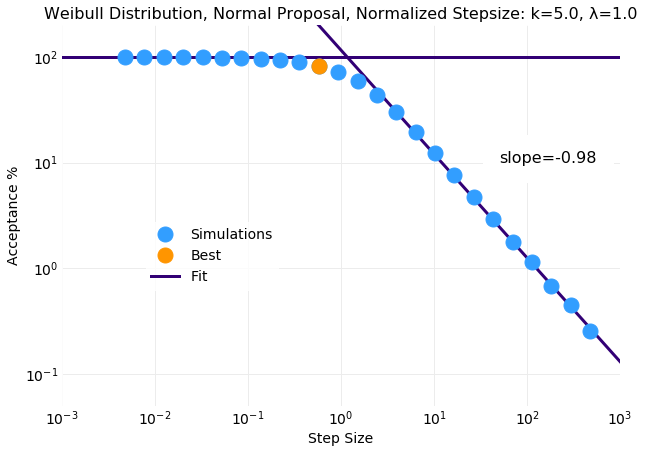
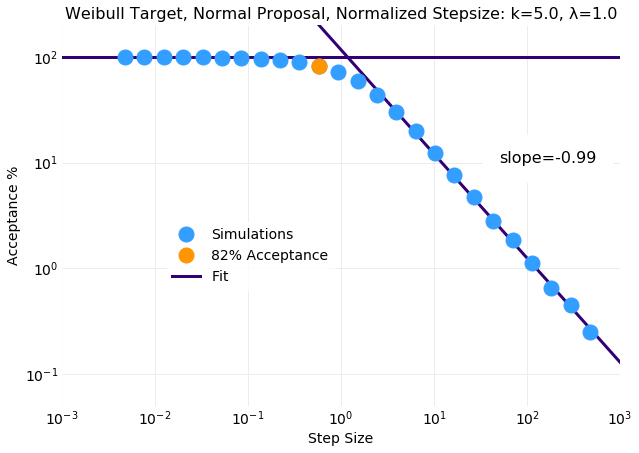
finihed acceptance plots

diff --git a/hydrogen_notebooks/mcmc/metropolis_hastings/proposal_distribution_performance_comparison.py b/hydrogen_notebooks/mcmc/metropolis_hastings/proposal_distribution_performance_comparison.py
@@ -28,11 +28,11 @@ def acceptance_plot(title, x, y, idx, text_pos, best_idx, xlim, plot):
     axis.set_prop_cycle(config.alternate_cycler)
     axis.set_ylim([0.05, 200.0])
     axis.loglog(x, y, zorder=6, marker='o', markersize=15.0, linestyle="None", markeredgewidth=1.0, label="Simulations")
-    axis.loglog(x[best_idx], y[best_idx], zorder=6, marker='o', markersize=15.0, linestyle="None", markeredgewidth=1.0, label="Best")
+    axis.loglog(x[best_idx], y[best_idx], zorder=6, marker='o', markersize=15.0, linestyle="None", markeredgewidth=1.0, label=f"{format(y[best_idx], '2.0f')}% Acceptance")
     axis.loglog(10**xfit, acceptance_fit(xfit, slope, y0), zorder=5, color="#320075", label="Fit")
     axis.loglog(numpy.linspace(xlim[0], xlim[1], 100), numpy.full((100), 100.0), zorder=5, color="#320075")
     axis.text(text_pos[0], text_pos[1], f"slope={format(slope, '2.2f')}", fontsize=16, bbox=bbox)
-    axis.legend(bbox_to_anchor=(0.4, 0.5))
+    axis.legend(bbox_to_anchor=(0.5, 0.5))
     config.save_post_asset(figure, "metropolis_hastings_sampling", plot)
 
 def acceptance_regress(x, y):
@@ -78,8 +78,8 @@ normal_samples, normal_acceptance = run_simulation(normal_stepsize, target_pdf, 
 
 σ = stats.weibull_sigma(k, λ)
 normalized_step_size = normal_stepsize/σ
-title = f"Weibull Distribution, Normal Proposal, Normalized Stepsize: k={k}, λ={λ}"
-acceptance_plot(title, normalized_step_size, normal_acceptance, 13, [50.0, 10.0], 10, [10.0**-3, 10.0**3], "normal_proposal_acceptance_fit")
+title = f"Weibull Target, Normal Proposal, Normalized Stepsize: k={k}, λ={λ}"
+acceptance_plot(title, normalized_step_size, normal_acceptance, 13, [50.0, 10.0], 10, [10**-3, 10**3], "normal_proposal_acceptance_fit")
 
 # %%
 # weibull target, gamma proposal
@@ -98,5 +98,5 @@ for i in range(len(shape)):
 
 σ = stats.weibull_sigma(k, λ)
 normalized_step_size = numpy.sqrt(shape*gamma_stepsize**2)/σ
-title = f"Weibull Distribution, Gamma Proposal, Normalized Stepsize, k={k}, λ={λ}"
-acceptance_plot(title, normalized_step_size, gamma_acceptance, 20, [50.0, 10.0])
+title = f"Weibull Target, Gamma Proposal, Normalized Stepsize, k={k}, λ={λ}"
+acceptance_plot(title, normalized_step_size, gamma_acceptance, 20, [20.0, 10.0], 13, [10**-2, 10**2], "gamma_proposal_acceptance_fit")
